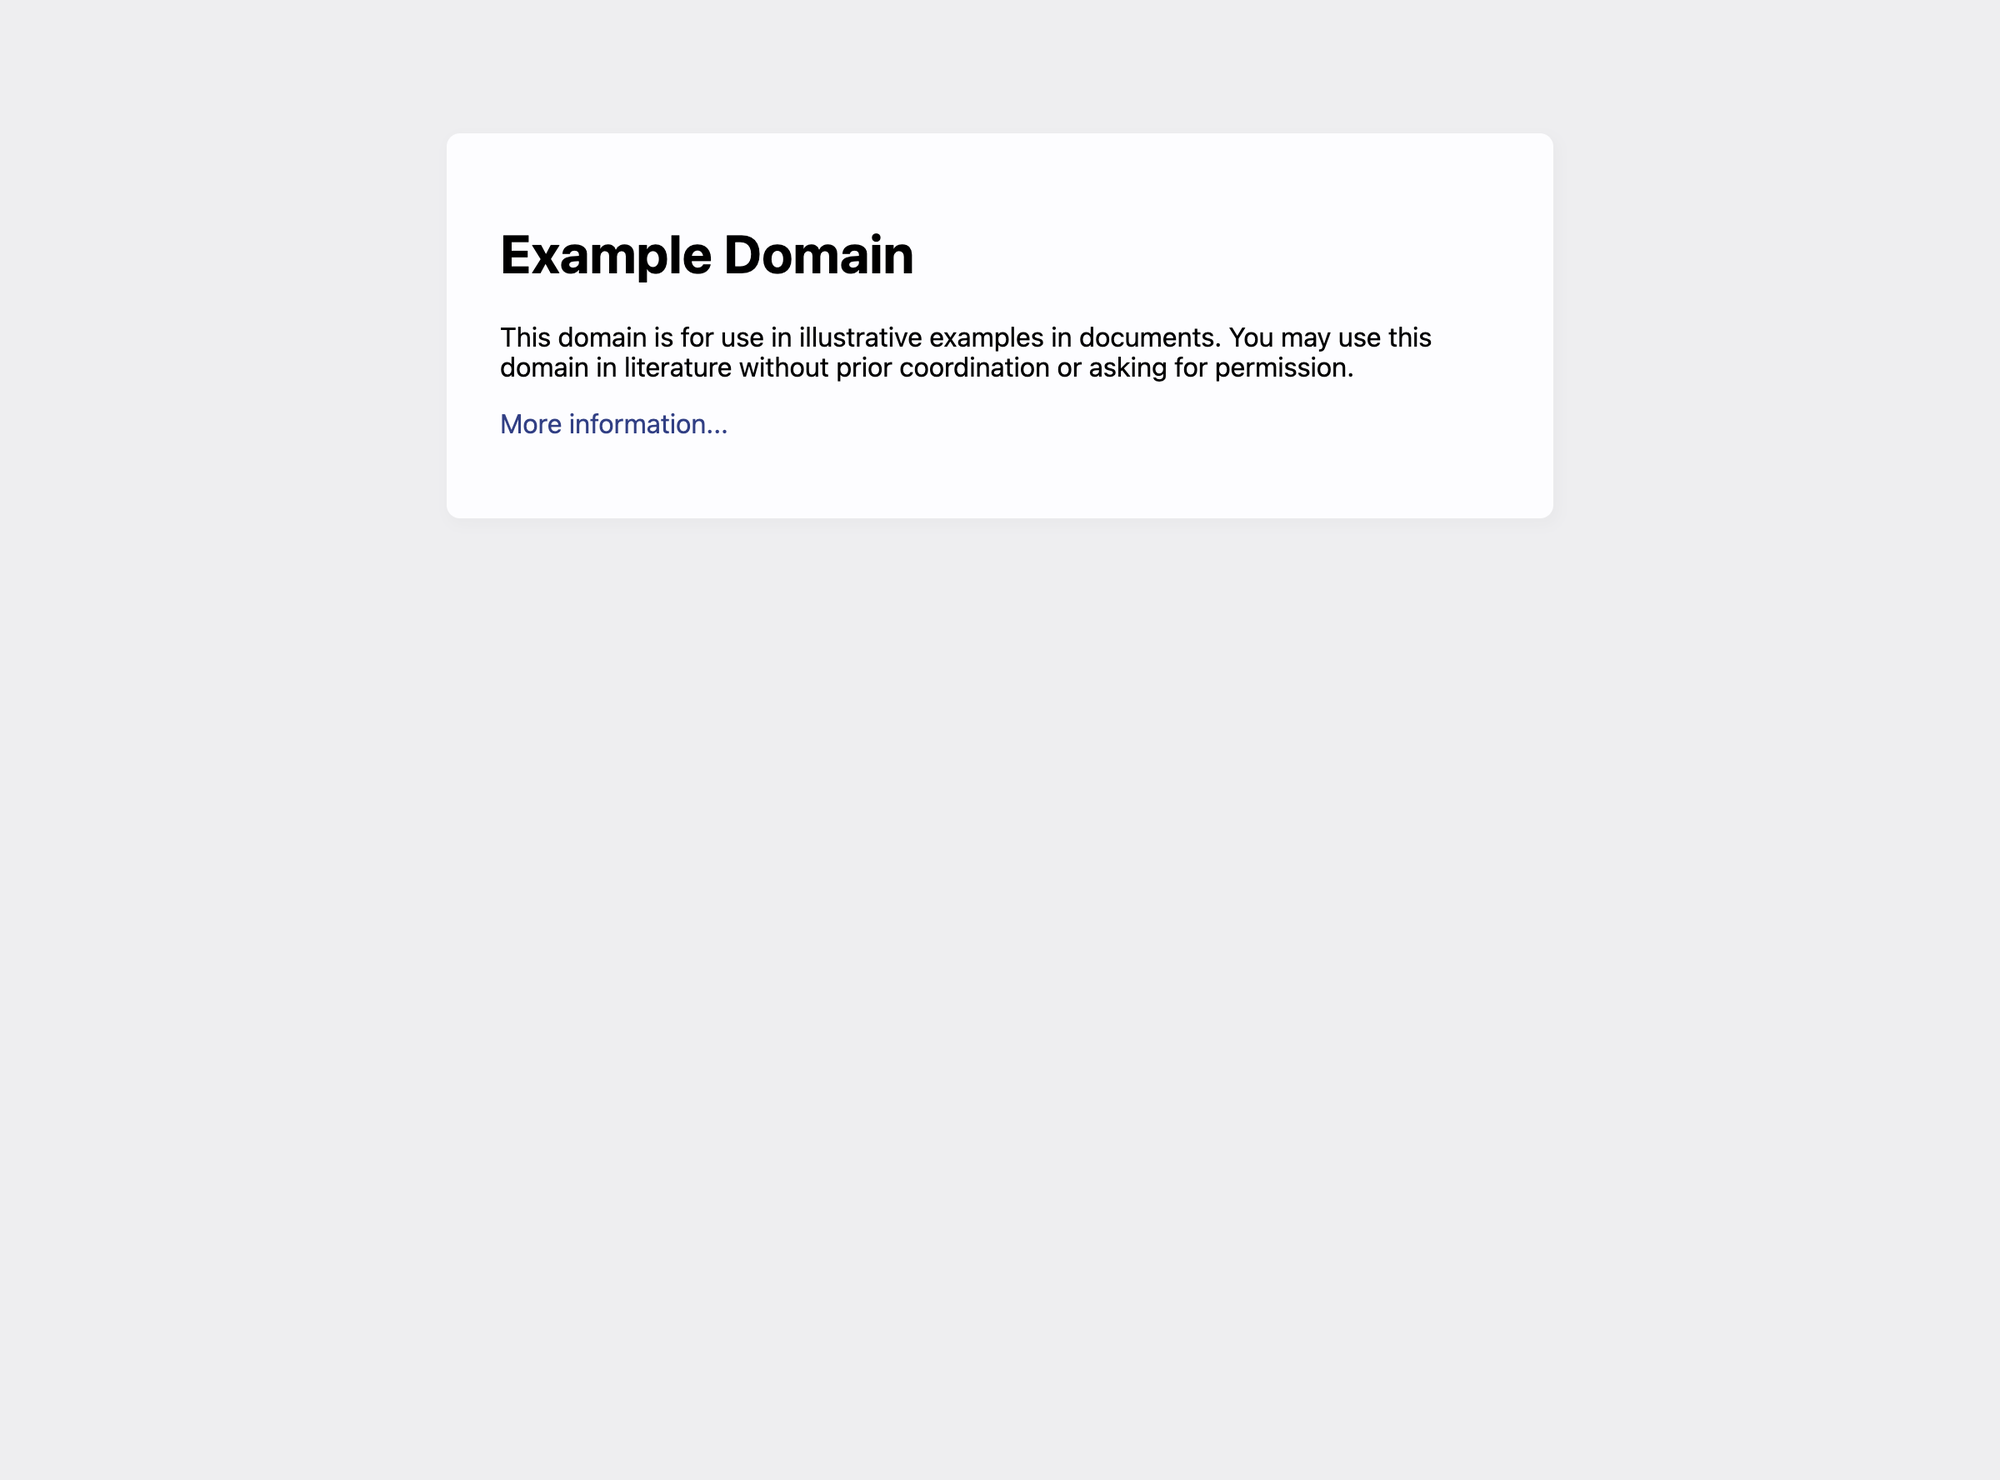
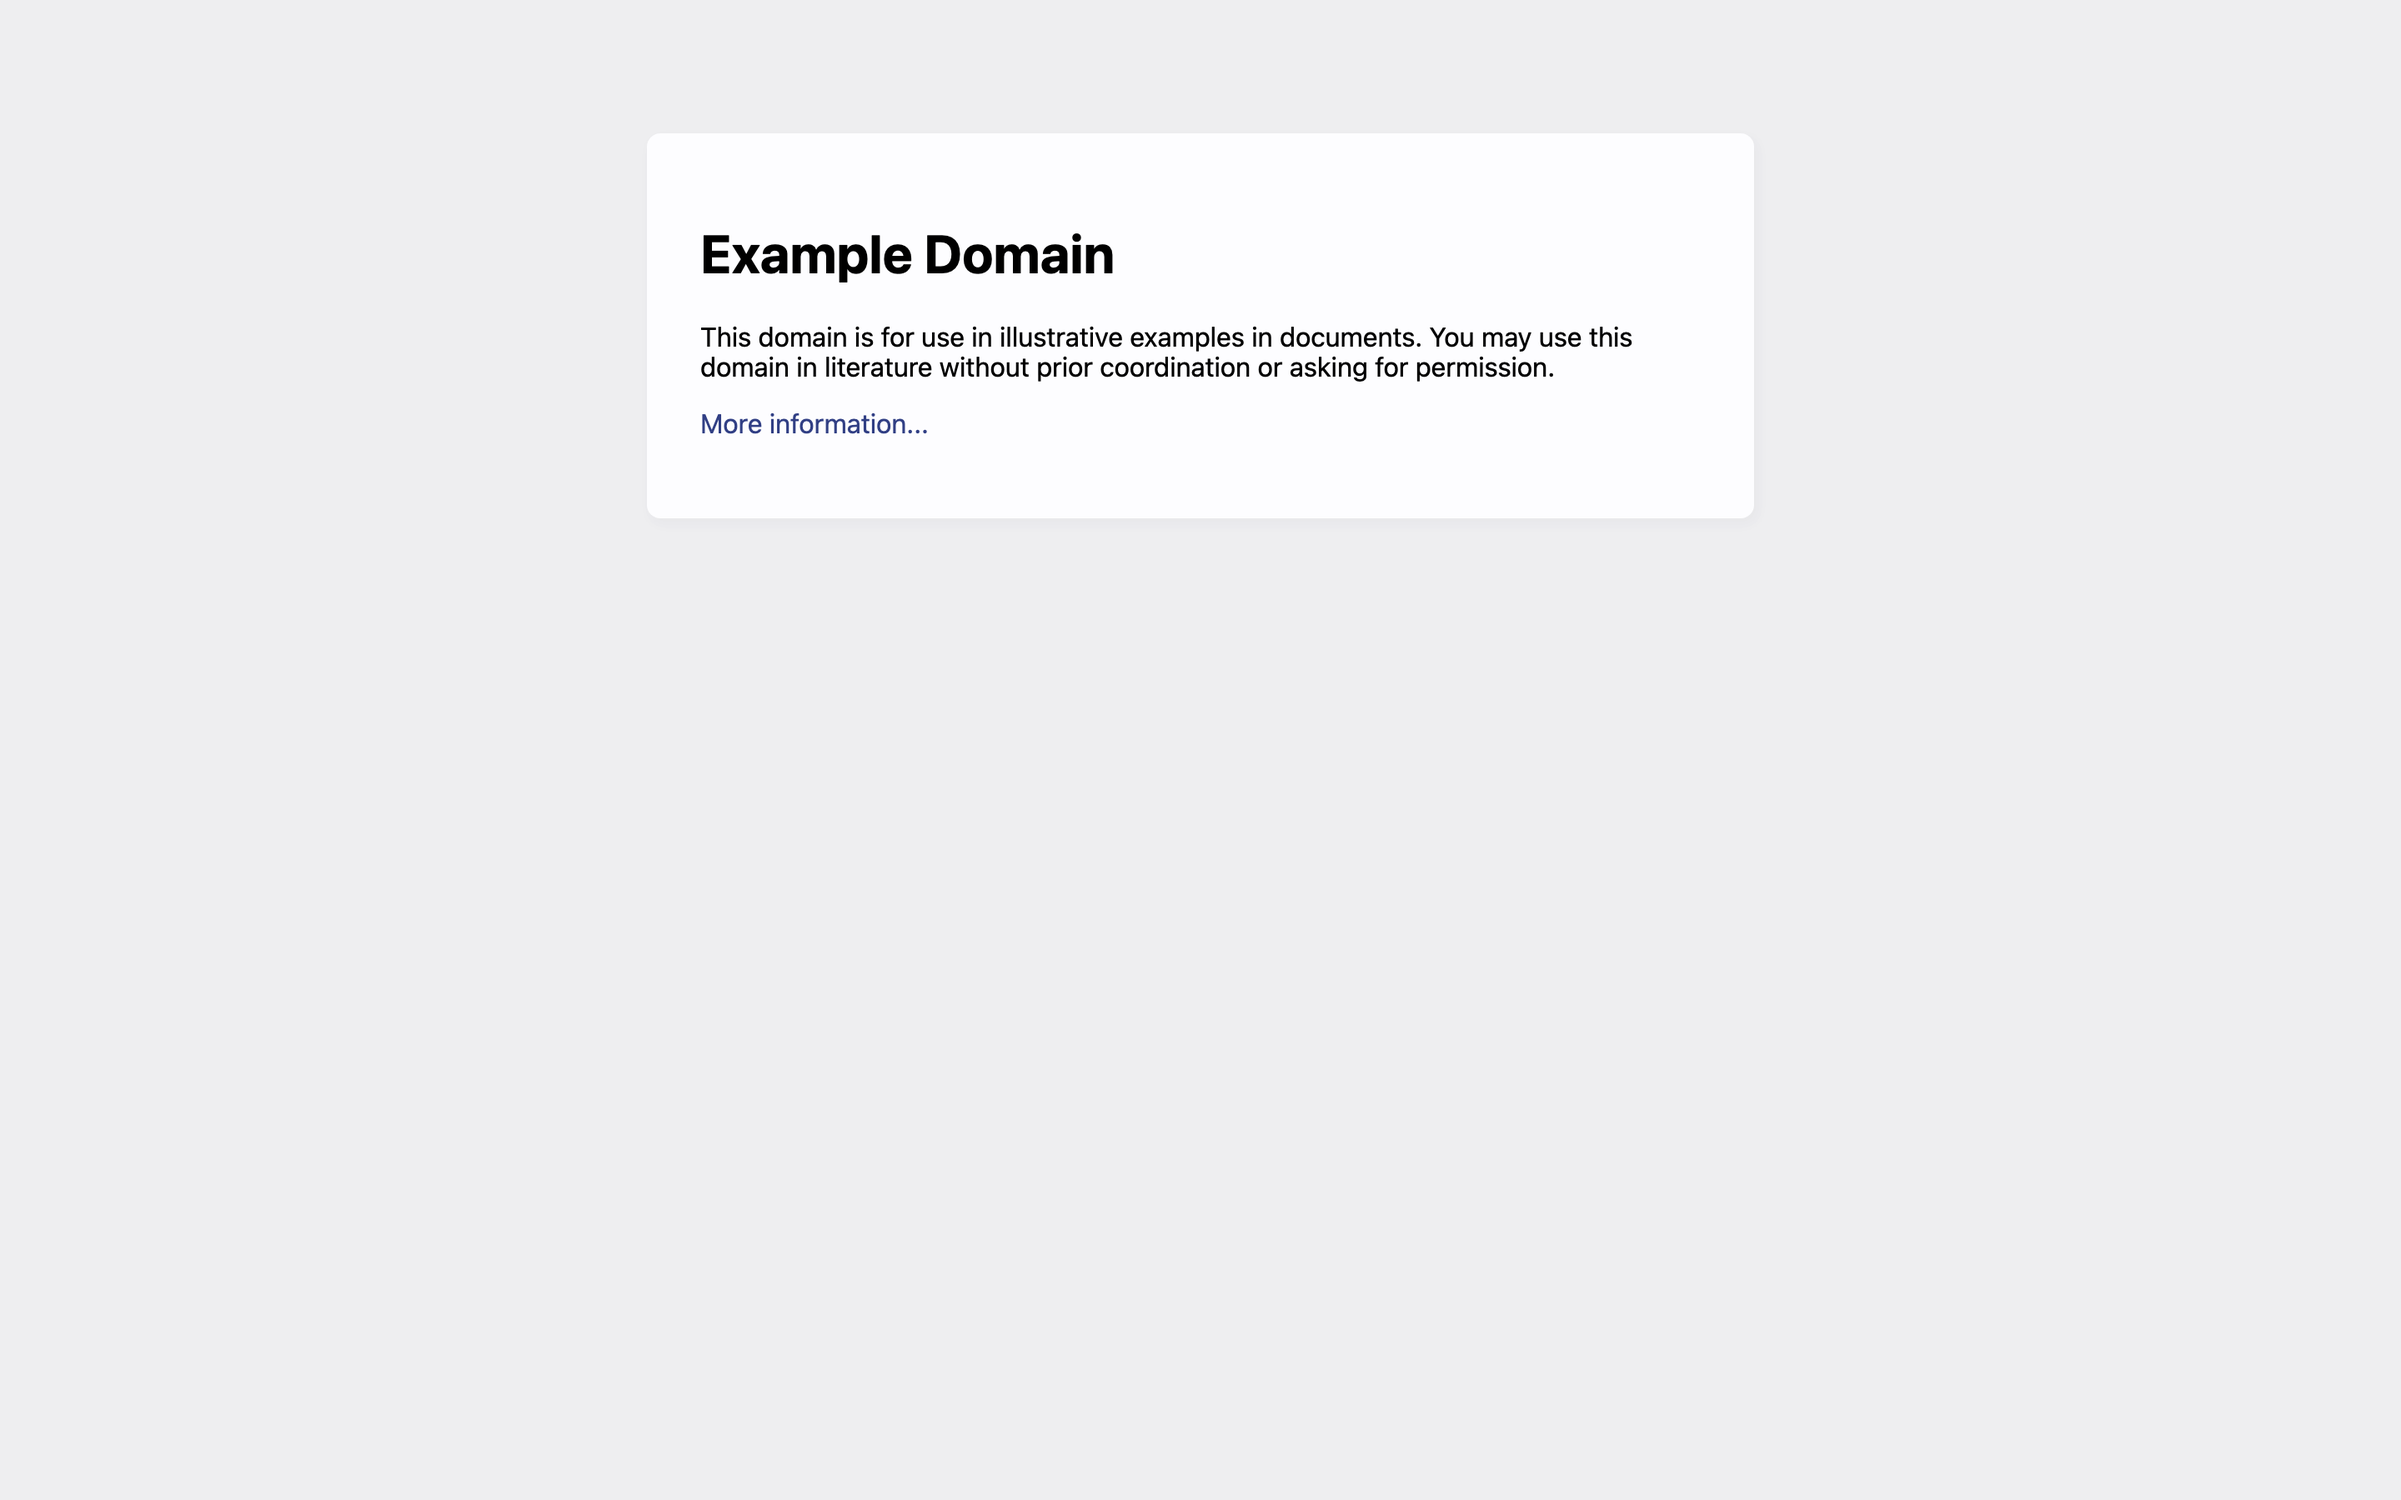
Chrome headless and right settings for scheenshots

Changed region(s): [[0.25, 0.2168, 0.7188, 0.3097], [0.25, 0.1548, 0.4688, 0.1858]]

diff --git a/python/jupyter_flex/tests/conftest.py b/python/jupyter_flex/tests/conftest.py
@@ -9,7 +9,7 @@ def splinter_webdriver():
 
 @pytest.fixture(scope="session")
 def splinter_headless():
-    return False
+    return True
 
 
 # Make all splinter files go into test-results
@@ -23,8 +23,13 @@ def splinter_screenshot_dir():
 
 
 @pytest.fixture(scope="session")
-def splinter_window_size():
-    return (1366, 768)
+def splinter_driver_kwargs():
+    from selenium import webdriver
+
+    chrome_options = webdriver.ChromeOptions()
+    chrome_options.add_argument("--force-device-scale-factor=2")
+    chrome_options.add_argument("--window-size=1440,900")
+    return {"options": chrome_options}
 
 
 # ==============================================================================
